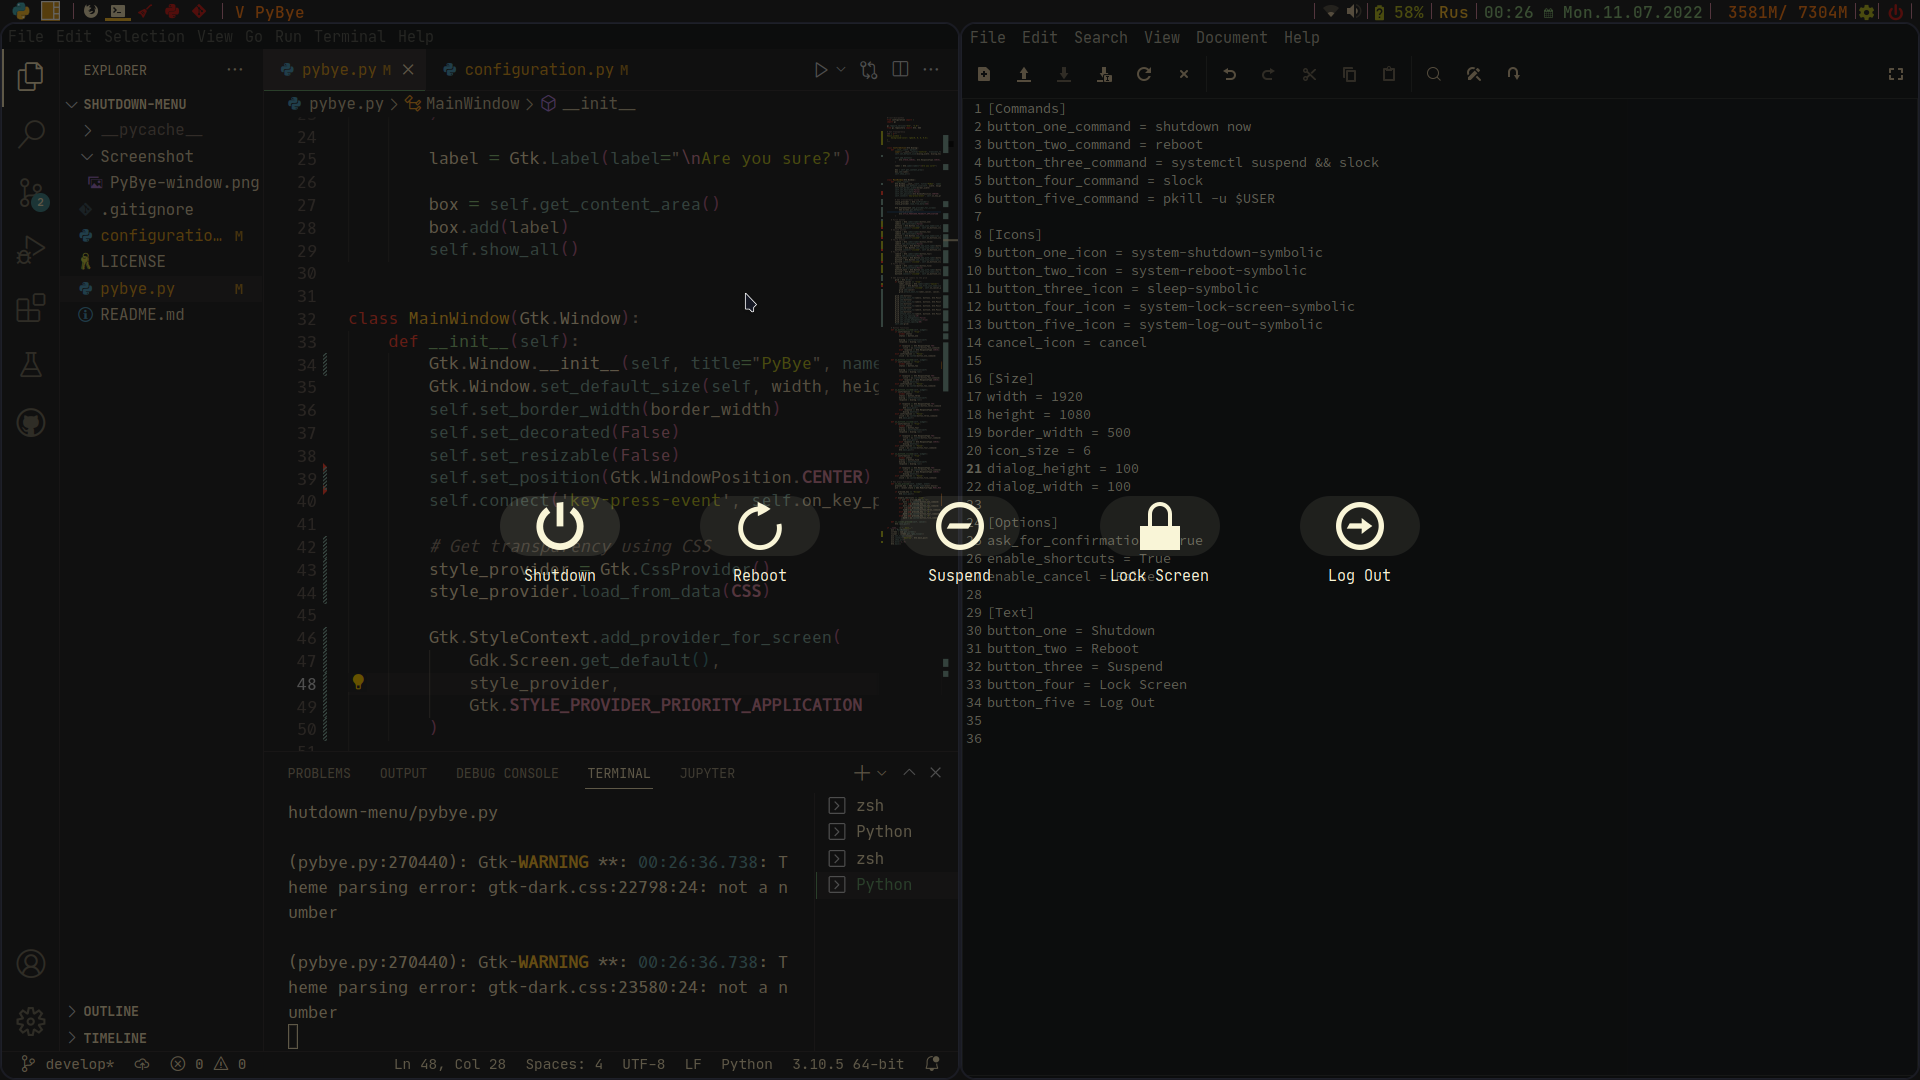
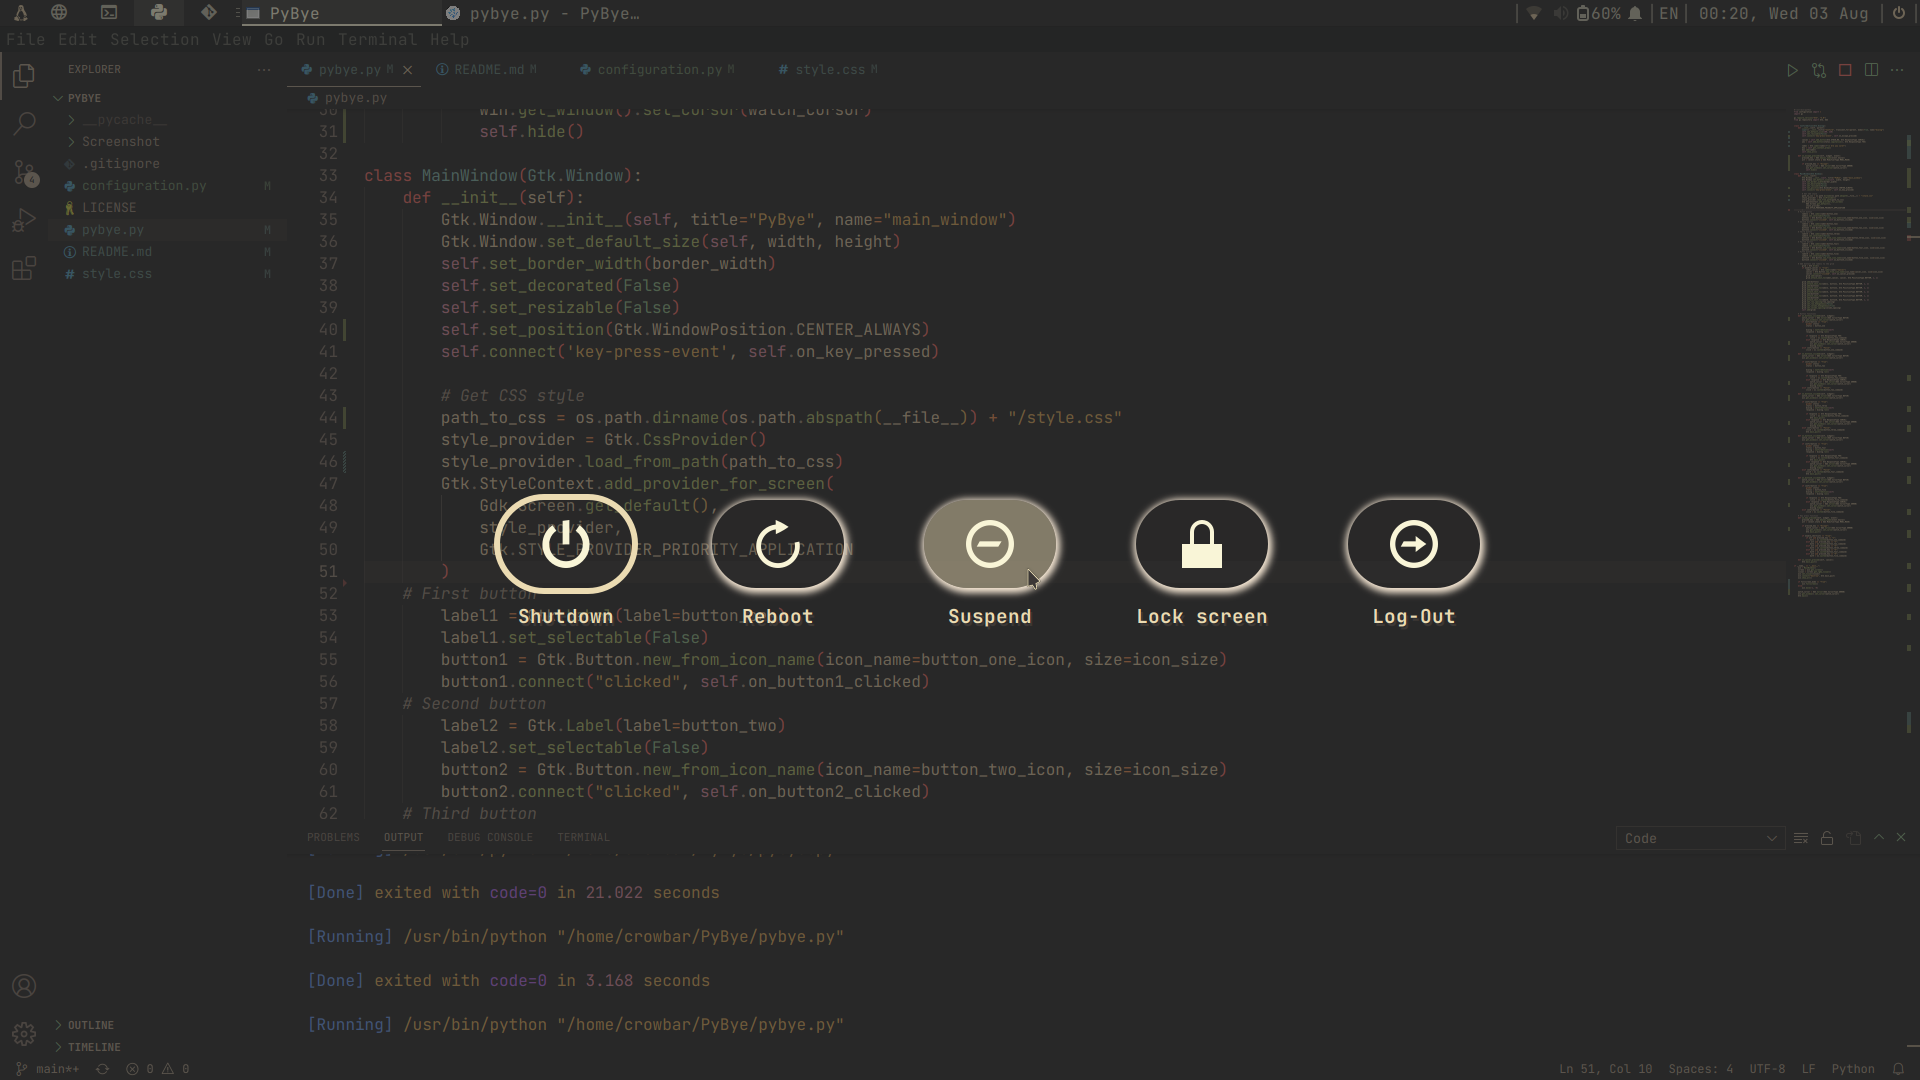
Upd screenshot & readme

diff --git a/README.md b/README.md
@@ -2,7 +2,7 @@
 Log-out program for Linux desktop.
 ****
 ![Screenshot](/Screenshot/PyBye-window.png "Main window")
-Unfortunately I am not able to update the screenshot for now, as I had to temporarily move from Qtile to Gnome, on which it does not look as intended. Basically, it now has animations on mouse hover and focus, as well as big circular buttons.
+
 ****
 ## What you need to know
 
@@ -24,16 +24,17 @@ The program has a configuration file to change it to your liking.
 - Enable the cancel button. (Also don't know if anyone would need it, because I set Escape button to close the window.)
 - Specify how much space between buttons and text you would like to have.
 - And also specify the spacing between the buttons.
+- Disable fullscreen mode.
 
 <b>The config file is located in `~/.config/PyBye/pybye.conf`.</b>
 
 ****
 
 ## Additional Info
-* The shutdown, reboot, suspend commands are standart SystemD commands, but to lock screen I use `light-locker` (locker for `lightdm`). You can easily change it in the config file.
-* The icons are <b>theme-dependent</b>. In order to change the default ones, you need to specify the exact name (without the file extention) of the icon of the currently installed GTK3 theme. The maximum size of default icons is 6. After changing the icons and their size, that is bigger than 6, run the script in the command line to see if there are any errors related to the icons.
-* The transparency effect is achieved through the use of a compositor. I use the `picom` compositor. Install `picom` and put this file inside `~/.config/picom/` directory. Then make this command `picom --experimental-backends &` (with or without `--experimental-backends`) to run after logging in.
-* If the resolution of the screen is correct in the config and for some reason the window is not fullscreen, try to uncomment `win.fullscreen()` (remove the `#`) on line 208 and comment out the next line `win.move(-1, -5)` and run PyBye again.
+* The shutdown, reboot, suspend and log-out commands are standart Systemd commands, but the screen locker is 
+* The icons are <b>theme-dependent</b>. In order to change the default ones, you need to specify the exact name (without the file extention) of the icon of the currently installed GTK3 theme. The maximum size of default icons is 6. After changing the icons and their size, that is larger than 6, run the script in the command line to see if there are any errors related to the icons.
+* The transparency effect is achieved through the use of a compositor. I use the `picom` compositor. Install `picom` and then make this command `picom --experimental-backends &` (with or without `--experimental-backends`) to run after logging in.
+* If the confirmation dialog window appears under the main one for some reason, set the option `Fullscreen` inside the config to `False` and try again.
 
 ****
 
